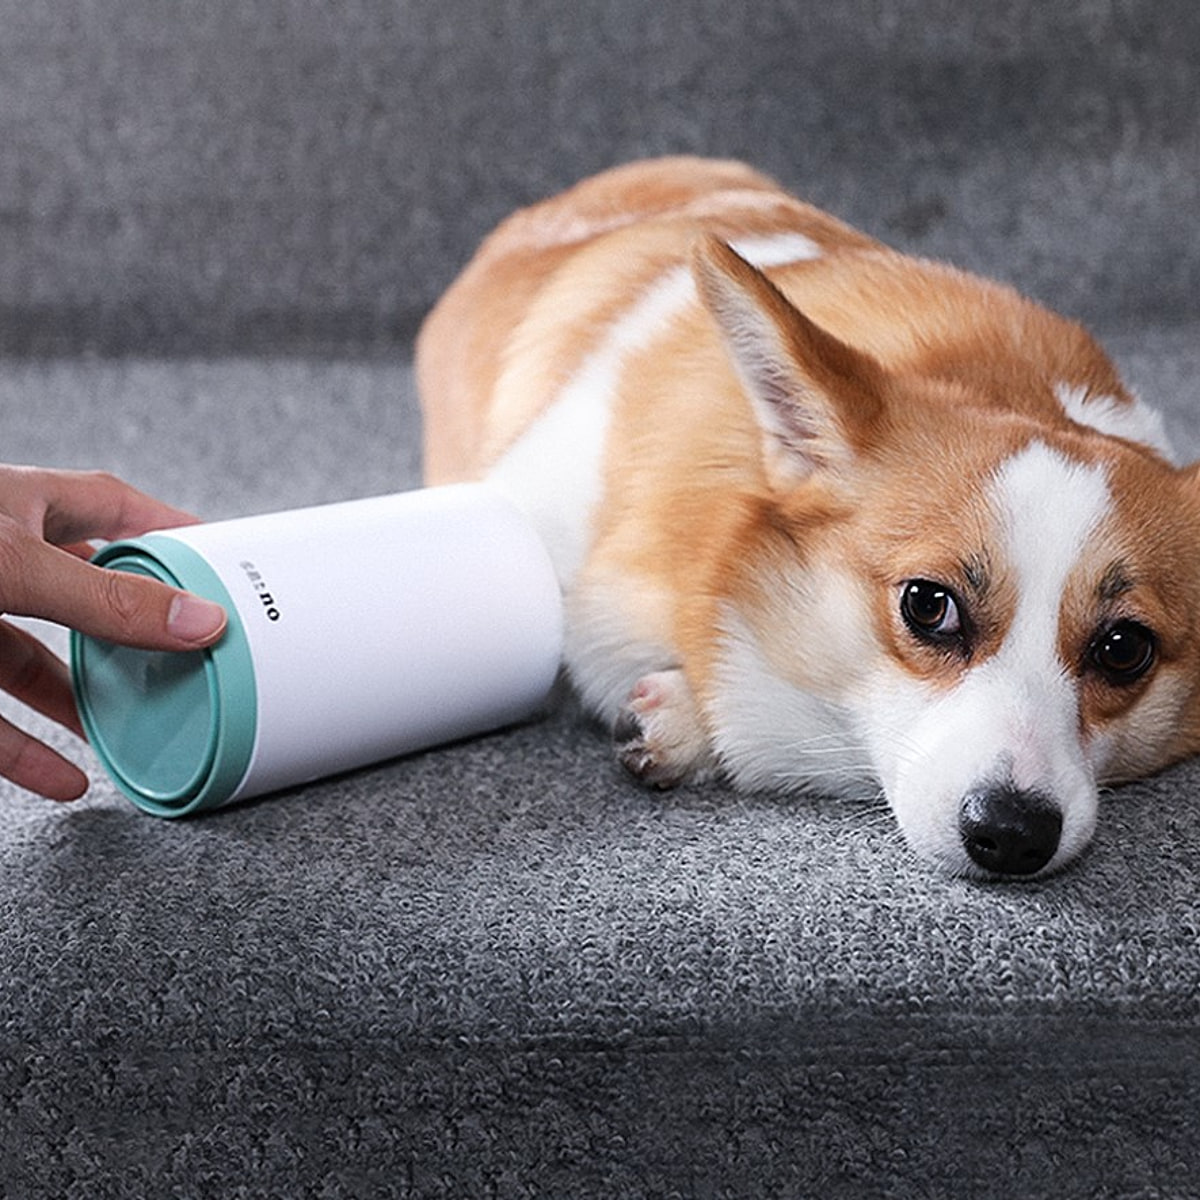
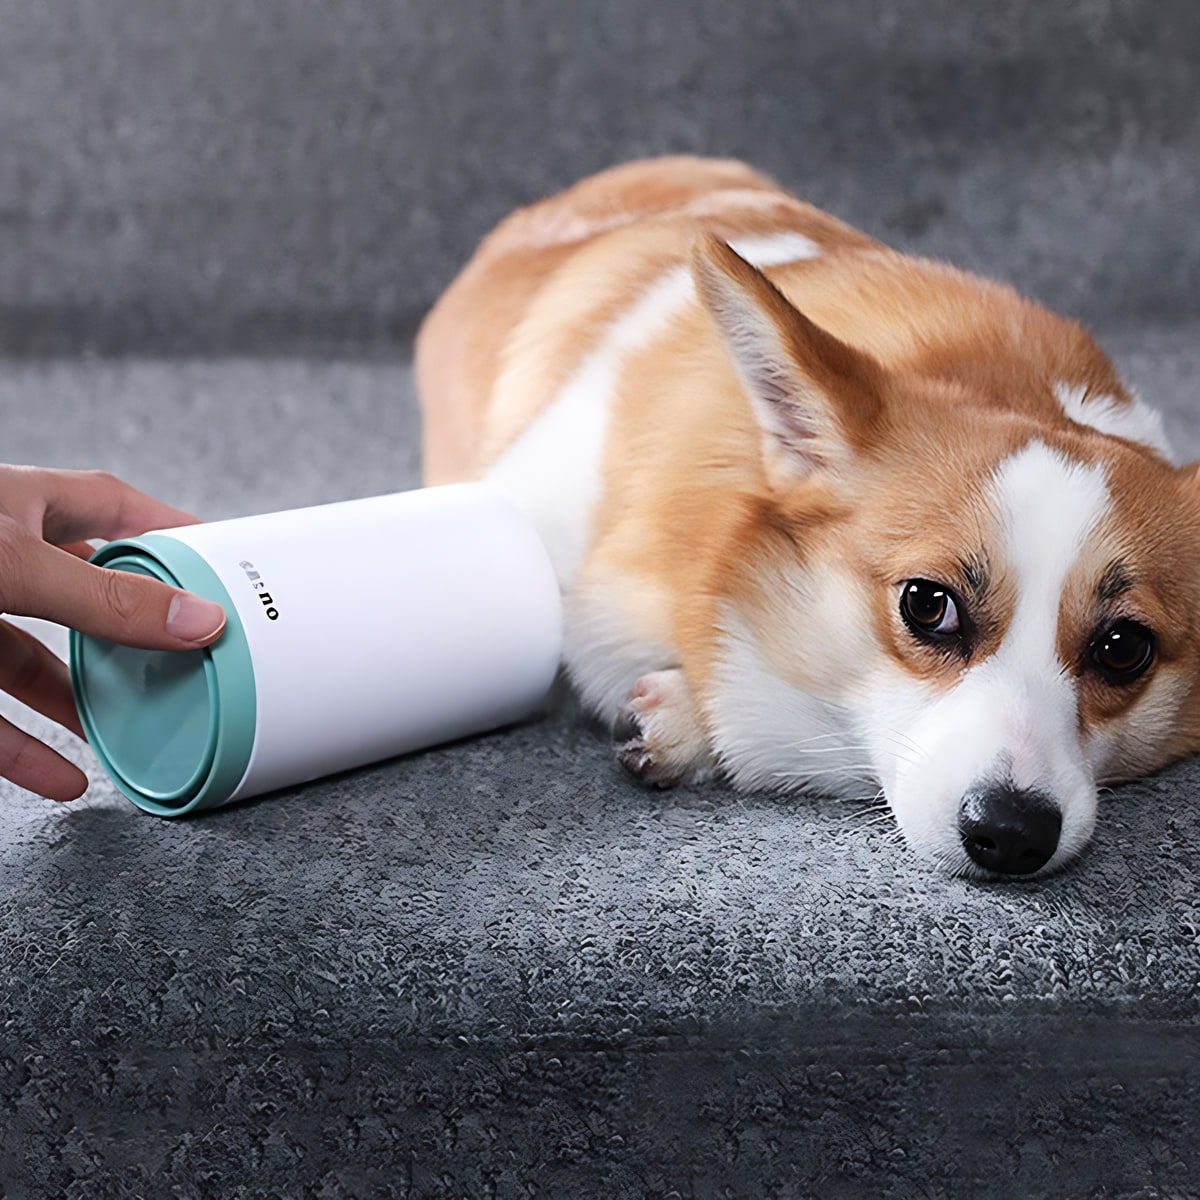
Upscale the soft supplier photos and version photo URLs
The supplier photos are only 790–900 px, so even after a careful enlarge
they stayed soft on phone screens. They now go through Real-ESRGAN
(realesr-general-x4v3, 4x, half denoise) before being sized to 1200 px:
the lifestyle photos for both paw washers, the cup colours and bristle
shots, the cup size chart, the cat on the sofa, the bed's cat collage and
the five dogs photo. The bed's ears close-up comes back now that it can
be enlarged cleanly.

Photo URLs carry a version tag (?v=3, src/lib/photos.ts) so visitors get
new photos immediately; images.localPatterns allows only that exact tag.

Claude-Session: https://claude.ai/code/session_01W8hsiWPjb2UxqJw8UVpYvn

diff --git a/src/lib/demo/catalog.ts b/src/lib/demo/catalog.ts
@@ -1,5 +1,6 @@
 import type { Collection, Image, Product, ProductVariant } from "@/lib/commerce/types";
 import { locales, type Locale } from "@/i18n/config";
+import { photoUrl } from "@/lib/photos";
 
 /**
  * Local catalog used when Shopify is not configured (demo mode).
@@ -263,6 +264,7 @@ const PRODUCTS: ProductDef[] = [
     photos: [
       { file: "cat-sleeping.jpg", alt: { en: "A cat asleep in the sleeping bag bed", es: "Un gato dormido en la cama saco" } },
       { file: "bed.jpg", alt: { en: "The grey sleeping bag bed with its cream lining", es: "La cama saco gris con su forro crema" } },
+      { file: "ears.jpg", alt: { en: "Close-up of the plush bear ears", es: "Detalle de las orejitas de peluche" } },
       { file: "cats.jpg", alt: { en: "Cats curled up in the bed", es: "Gatos acurrucados en la cama" } },
       {
         file: { en: "sizes-en.jpg", es: "sizes-es.jpg" },
@@ -280,7 +282,7 @@ export type DemoProduct = Product & { collections: string[] };
 function buildProduct(def: ProductDef, lang: Locale): DemoProduct {
   const fileOf = (p: ProductDef["photos"][number]) => (typeof p.file === "string" ? p.file : p.file[lang]);
   const image = (file: string, alt: Text, width = 1200, height = width): Image => ({
-    url: `/photos/${def.handle}/${file}`,
+    url: photoUrl(`${def.handle}/${file}`),
     altText: alt[lang],
     width,
     height,

diff --git a/src/lib/commerce/presentation.ts b/src/lib/commerce/presentation.ts
@@ -1,4 +1,5 @@
 import type { Dictionary } from "@/i18n/dictionaries/en";
+import { photoUrl } from "@/lib/photos";
 import type { Illustration } from "./types";
 
 /** Alt text for the prototype's photos lives in `dict.photos`. */
@@ -66,7 +67,7 @@ const COLLECTION_PRESENTATION: Record<string, CollectionPresentation> = {
     tile: "t3",
     illustration: "care",
     photo: {
-      src: "/photos/paw-washer-cup/corgi.jpg",
+      src: photoUrl("paw-washer-cup/corgi.jpg"),
       alt: "groomingCare",
     },
   },
@@ -74,7 +75,7 @@ const COLLECTION_PRESENTATION: Record<string, CollectionPresentation> = {
     tile: "t2",
     illustration: "beds",
     photo: {
-      src: "/photos/luxury-cat-sofa-bed/cat-lounging.jpg",
+      src: photoUrl("luxury-cat-sofa-bed/cat-lounging.jpg"),
       alt: "comfortBeds",
     },
   },

diff --git a/next.config.ts b/next.config.ts
@@ -1,4 +1,5 @@
 import type { NextConfig } from "next";
+import { PHOTO_VERSION } from "./src/lib/photos";
 
 const nextConfig: NextConfig = {
   // Product share images read the bundled demo photos from disk.
@@ -8,6 +9,8 @@ const nextConfig: NextConfig = {
   images: {
     // 90 for product and category photos (fine textures), 75 for everything else.
     qualities: [75, 90],
+    // Bundled product photos, with their version tag (see src/lib/photos.ts).
+    localPatterns: [{ pathname: "/photos/**", search: `?v=${PHOTO_VERSION}` }],
     remotePatterns: [
       // Product and collection media served by Shopify.
       { protocol: "https", hostname: "cdn.shopify.com" },

diff --git a/src/lib/photos.ts b/src/lib/photos.ts
@@ -1,0 +1,9 @@
+/**
+ * Bundled product photos (public/photos). Browsers and the image optimizer
+ * cache photos by URL, so bump PHOTO_VERSION whenever a photo there changes:
+ * every URL changes with it and visitors get the new version straight away.
+ * next.config.ts only allows this exact query string.
+ */
+export const PHOTO_VERSION = "3";
+
+export const photoUrl = (path: string) => `/photos/${path}?v=${PHOTO_VERSION}`;

diff --git a/README.md b/README.md
@@ -194,7 +194,8 @@ Supplier costs and supplier SKUs are **not** shown anywhere.
 - [ ] **Retail prices.** The four products have proposed prices (€16.90–€44.90). Check them
       against your costs and fees, then set them in Shopify with the store currency set to EUR;
       live prices and currency come from Shopify.
-- [ ] **Photos in Shopify.** The product photos are bundled in `public/photos/` for demo mode.
+- [ ] **Photos in Shopify.** The product photos are bundled in `public/photos/` for demo mode
+      (when you change one, bump `PHOTO_VERSION` in `src/lib/photos.ts` so visitors get it).
       Upload them (or your own) to each product and variant in Shopify. The Silicone Paw Washer
       size chart comes in two versions (`sizes-en.jpg`, `sizes-es.jpg`) because of the decimal
       comma; in Shopify, use the English one or a chart without decimals.
